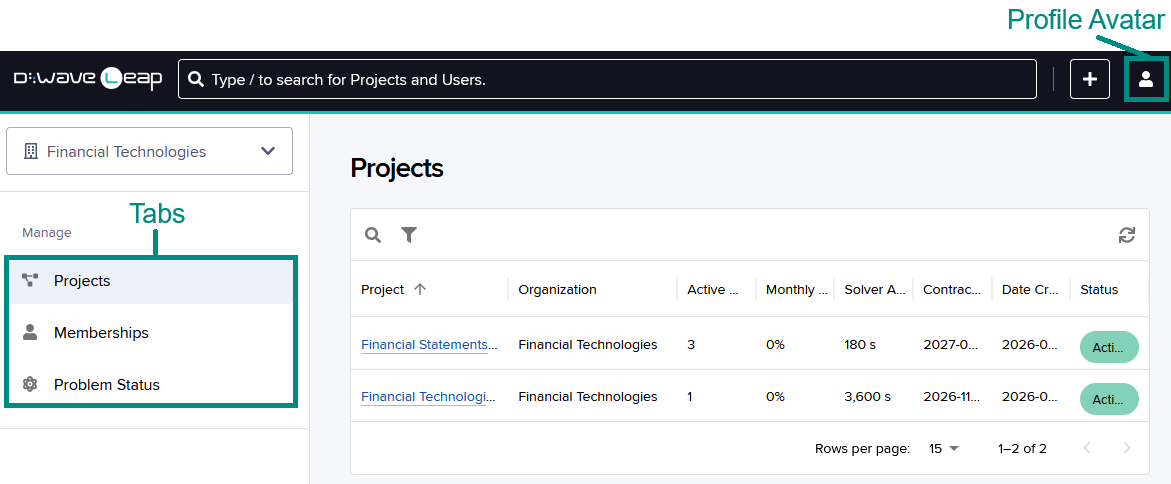
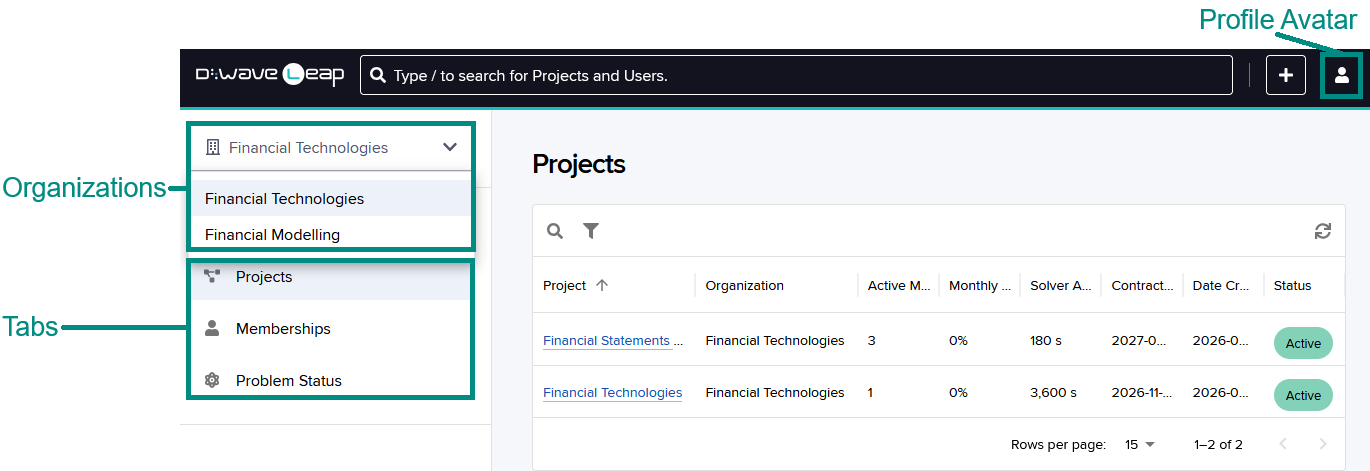
Reduce redundant overview content; move organization and project screenshots to respective sections. Document new support for German characters

diff --git a/docs/leap_sapi/admin.rst b/docs/leap_sapi/admin.rst
@@ -2,7 +2,6 @@
     :start-after: start_substitutions
     :end-before: end_substitutions
 
-
 .. _leap_admin:
 
 ===================
@@ -18,7 +17,7 @@ Overview
 ========
 
 Leap Admin is an easy-to-use cloud-based administration tool that you use to
-perform the following tasks:
+perform the following major tasks:
 
 *   Manage multiple projects in multiple
     :ref:`organizations <admin_def_organization>`.
@@ -37,45 +36,13 @@ see the :ref:`opt_index_get_started` or :ref:`qpu_index_get_started` topics.
 
 To get started quickly, go to the :ref:`admin_quick_start` topic.
 
-Administration Tasks
---------------------
-
-*   :ref:`Managing organizations <admin_managing_organizations>`
-
-    Organizaton administrators can view information about the organization,
-    such as its name and status, and summary information about its projects,
-    such as their status and number of members.
-
-*   :ref:`Managing projects <admin_managing_projects>`
-
-    You can view project information such as the project members, the solvers
-    available in the project, and the project status. For time-based projects,
-    you can also set the default limit for all members' individual solver-access
-    time.
-
-*   :ref:`Managing project members <admin_managing_project_members>`
-
-    You can add members by inviting them to join a project. You can also
-    set a per-member limit on solver-access time that overrides the project
-    default.
-
-*   :ref:`Managing problems submitted to solvers in the projects
-    <admin_problem_status>`
-
-    You can view and filter a list of problem submissions, access the details
-    of any problem, and cancel pending submissions.
-
-*   :ref:`Generating solver usage reports <admin_reports>`
-
-    You can generate usage reports and export them to `XLSX` and `CSV` files.
-
 Searching Globally
 ------------------
 
 Via the Global Search field as shown in :numref:`Figure %s <AdminGlobalSearch>`,
-you can search for organizations, projects, and members across all organizations
-and projects. The text matches any part of an organization, project, or member
-name (including an email address).
+you can search for projects and members across all organizations and projects.
+The text matches any part of a project, or member name (including an email
+address).
 
 .. figure:: ../_images/leap_admin_global_search.png
     :name: AdminGlobalSearch
@@ -86,79 +53,18 @@ name (including an email address).
 .. admonition:: Some Limitations
     :name: global_search_limits
 
-    *   The search is case-insensitive.
+    *   Searching is case-insensitive.
 
-    *   Only the Latin-1 character set is supported.
+    *   For project names, the Latin-1 character set and the Ä, ä, Ö, ö, ẞ, Ü, ü
+        characters are supported; however, diacritical marks are ignored.
+
+    *   For member names, only the Latin-1 character set is supported.
 
     *   The maximum number of characters is 254.
 
 .. tip::
     *   Use the `Up` and `Down` arrow keys to select an item in the results list
         and press `Enter` to go to the selection.
-
-Organization Page
------------------
-
-When you open an organization, the organization page is displayed as shown in
-:numref:`Figure %s <AdminOrgPage>`. If you have more than one organization, you
-can select one via a dropdown list.
-
-.. figure:: ../_images/leap_admin_org.png
-    :name: AdminOrgPage
-    :alt: Leap Admin Organization Page
-
-    Leap Admin: Organization Page
-
-Tabs that organize tasks into logical groups are as follows:
-
-*   **Projects**
-
-    Displays summary information for the projects in the organization. You can
-    display details about a project by clicking its name.
-
-*   **Memberships**
-
-    Displays summary information for all project members across the organization.
-    You can display details about a member by clicking their member name.
-
-*   **Problem Status**
-
-    Displays a summary of the statuses of all submitted problems. You can
-    display a problem's parameters and, if available for the solver, the sample
-    set by clicking the problem ID.
-
-Project Page
-------------
-
-When you open a project, the project page is displayed as shown in
-:numref:`Figure %s <AdminProjectPage>`.
-
-.. figure:: ../_images/leap_admin_project_admin_project_page.png
-    :name: AdminProjectPage
-    :alt: Leap Admin Project Page
-
-    Leap Admin: Project Page
-
-Tabs that organize tasks into logical groups are as follows:
-
-*   **Overview**
-
-    Displays information about the project.
-
-*   **Memberships**
-
-    Displays summary information for the project members. You can display
-    details about a member by clicking their member name.
-
-*   **Problem Status**
-
-    Displays a summary of the statuses of all submitted problems. You can
-    display a problem's parameters and, if available for the solver, the
-    problem's sample set by clicking the problem ID.
-
-*   **Reporting**
-
-    Enables generating CSV or Excel reports on solver usage statistics.
 
 .. _admin_user_roles:
 
@@ -175,16 +81,13 @@ your role level and below.
 .. list-table:: Member Roles and Privileges
     :widths: 1 3
 
-    *   -   **User**
-        -   Project member who has the following privileges in the project:
+    *   -   **Organization Admin**
+        -   Project member who has the following privileges in the organization
+            and its projects:
 
-            *   Manage and submit their problems to solvers.
+            *   Perform any project administrator tasks.
 
-            *   Manage their own profile settings.
-
-            *   Reset their API token.
-
-            Members that have the *User* role cannot access Leap Admin.
+            *   Change a project's name.
 
     *   -   **Project Admin**
         -   Project member who has the following privileges in the project:
@@ -203,13 +106,16 @@ your role level and below.
 
             *   Manage problems.
 
-    *   -   **Organization Admin**
-        -   Project member who has the following privileges in the organization
-            and its projects:
+    *   -   **User**
+        -   Project member who has the following privileges in the project:
 
-            *   Perform any project administrator tasks.
+            *   Manage and submit their problems to solvers.
 
-            *   Change a project's name.
+            *   Manage their own profile settings.
+
+            *   Reset their API token.
+
+            Members that have the *User* role cannot access Leap Admin.
 
 Filtering and Sorting Data
 --------------------------
@@ -233,6 +139,15 @@ Some actions include the following:
 *   Sorting data in columns in ascending or descending order
 
 *   Hiding and showing columns
+
+.. note:: 
+    
+    *   Filtering and sorting is case-insensitive.
+        
+    *   When filtering and sorting on project names, diacritical marks on the
+        Ä, ä, Ö, ö, Ü, ü characters are ignored. Also, although project names
+        that differ only by diacritical mark are grouped together, they may not
+        always be sorted in the same order.
 
 Terminology
 -----------
@@ -285,7 +200,9 @@ Terminology
     who administer an organization and its associated projects. Only members
     with the *Project Admin* or *Organization Admin* role can access Leap Admin.
     The *User* role is intended for people whose main activity is submitting
-    problems. For more information, see :ref:`admin_user_roles`.
+    problems.
+    
+    For more information, see :ref:`admin_user_roles`.
 
 .. _admin_def_seat:
 
@@ -324,13 +241,12 @@ Conventions
 For sequential steps in the user interface, variables are indicated
 in italics; for example, **Leap Admin** > *project_name*.
 
-
 .. _admin_quick_start:
 
 Quick Start
 ===========
 
-The goal of this subsection is to invite people to a
+The goal of this topic is to invite people to a
 :ref:`seat-based project <admin_project_seat_time>`.
 
 To log in to Leap Admin, you must have received an email to join a project as a
@@ -412,6 +328,16 @@ institution in the Leap service. An organization contains one or more projects.
 
     *   To create an organization, contact |support_email|_.
 
+When you open an organization, the organization page is displayed as shown in
+:numref:`Figure %s <AdminOrgPage>`, where tabs organize tasks into logical groups.
+If you have more than one organization, you can select one via a dropdown list.
+
+.. figure:: ../_images/leap_admin_org.png
+    :name: AdminOrgPage
+    :alt: Leap Admin Organization Page
+
+    Leap Admin: Organization Page
+
 Organization Administrators
 ---------------------------
 
@@ -465,7 +391,6 @@ page. The life-cycle states are the following:
         -   The end date of all solver-access time allocations in all the
             organization's projects has been reached.
 
-
 .. _admin_managing_projects:
 
 Managing Projects
@@ -486,6 +411,16 @@ members' limits on solver-access time, and
 .. note::
     To create a project or change a project's allowed email list, contact
     |support_email|_.
+
+When you open a project, the project page is displayed as shown in
+:numref:`Figure %s <AdminProjectPage>`, where tabs organize tasks into logical
+groups.
+
+.. figure:: ../_images/leap_admin_project_admin_project_page.png
+    :name: AdminProjectPage
+    :alt: Leap Admin Project Page
+
+    Leap Admin: Project Page
 
 .. _admin_project_seat_time:
 
@@ -708,7 +643,6 @@ follows:
 *   The anniversary date is the same as the existing active or scheduled records
     if the new record is contiguous with those existing records.
 
-
 Viewing Available Solvers
 -------------------------
 
@@ -761,7 +695,6 @@ follows:
             Project members can still log in to the project, but cannot run
             problems on the solvers.
 
-
 .. _admin_solver_time_default_all:
 
 Changing the Solver-Access Time Limit for Time-based Projects
@@ -787,7 +720,6 @@ do the following:
 
 .. [#] Solvers have different usage rates. For more information, see the
     :ref:`qpu_operation_timing` section.
-
 
 .. _admin_managing_project_members:
 
@@ -884,7 +816,6 @@ You may find the following field descriptions helpful.
 
                 Sets the maximum amount of solver-access time to the same as
                 that of the project's **Default Solver Access Limit** field.
-
 
 .. _admin_member_status_viewing:
 
@@ -1016,7 +947,6 @@ A list of members is displayed on the **Memberships** tab as follows:
 To display information about a specific member, click the project's
 **Memberships** tab > *member_name*.
 
-
 .. _admin_seat_changing_user:
 
 Changing a Project Member's Seat Type
@@ -1121,7 +1051,6 @@ If you are the only organization administrator in an organization and you remove
 yourself from your last project, your *Org Admin* role is removed and you will
 not be able to access the organization in Leap Admin. To reinstate access,
 contact |support_email|_.
-
 
 .. _admin_problem_status:
 
@@ -1239,7 +1168,6 @@ Cancelled problems do not use any solver-access time.
     *   If you run scripts to continually submit problems, refresh the table
         after cancelling problem submissions to confirm that the cancellation
         attempts succeeded.
-
 
 .. _admin_reports:
 